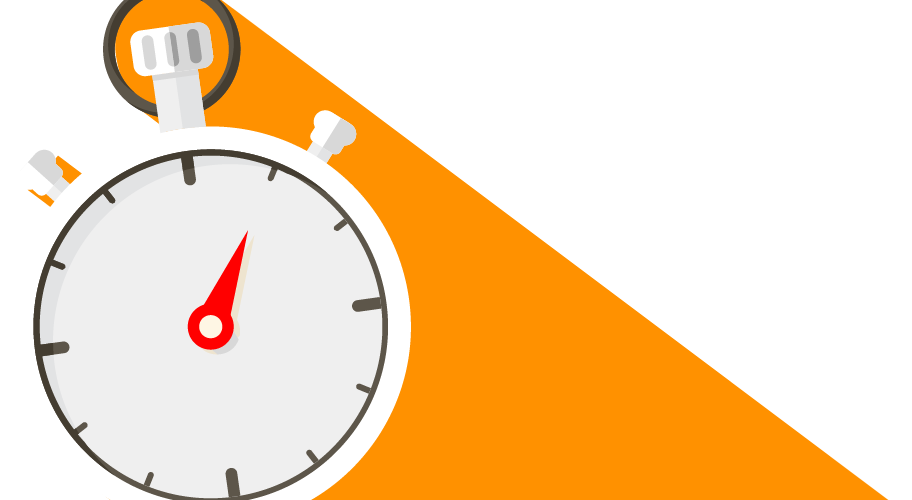
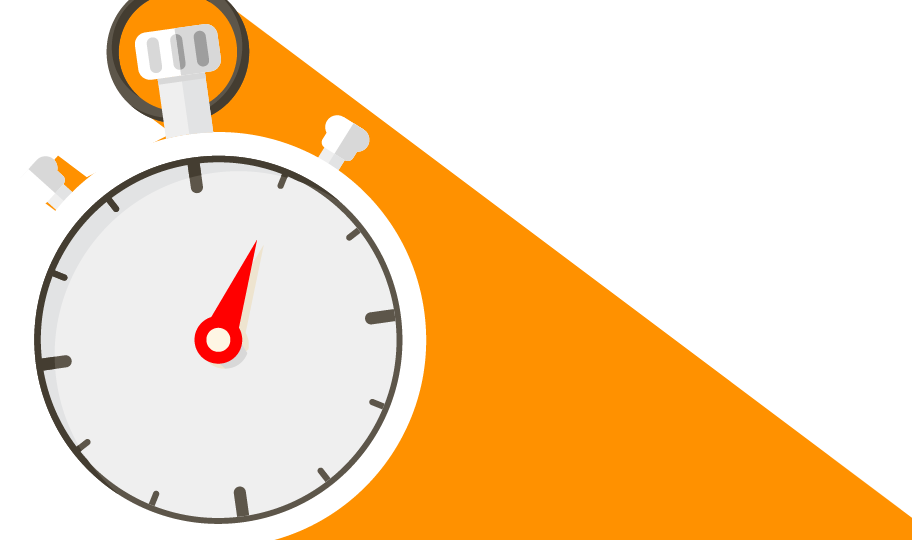
corrections illustration

Changed region(s): [[0.0307, 0.0, 1.0, 1.0], [0.1842, 0.45, 0.307, 0.72], [0.307, 0.09, 0.3377, 0.12]]

diff --git a/css/style.css b/css/style.css
@@ -120,7 +120,7 @@ header{
 
 #bandeau{
   position: relative;
-  height: 250px;
+  height: 270px;
   width: 700px;
   margin: auto;
   text-align: right;
@@ -131,7 +131,7 @@ header{
   top: 0px;
   left: -110px;
   width: 456px;
-  height: 250px;
+  height: 270px;
 }
 
 #informations {
